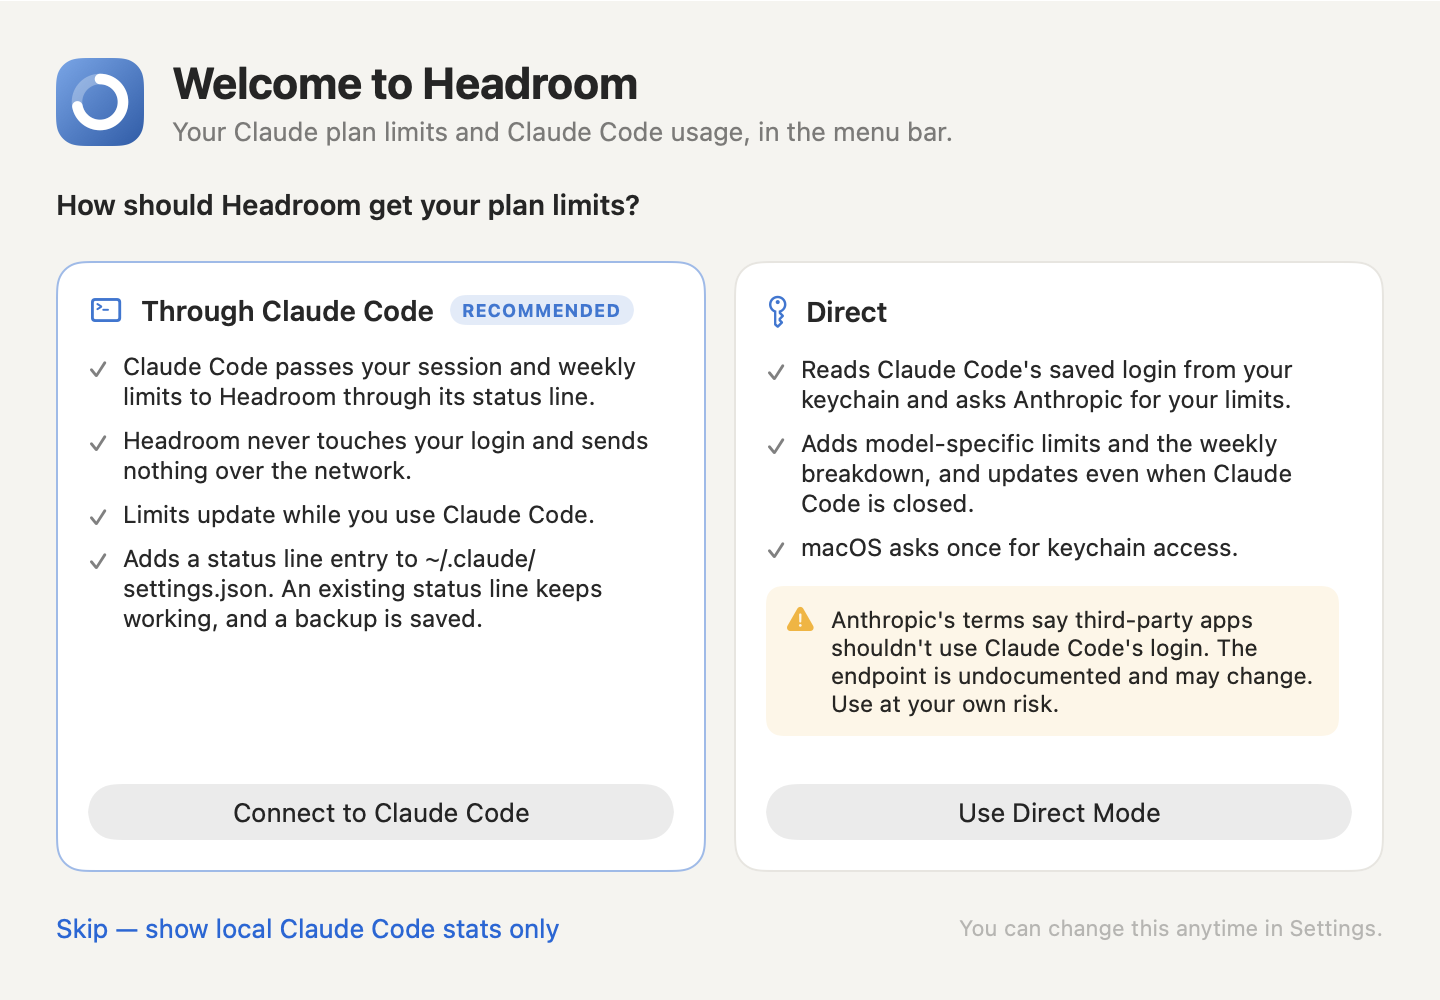
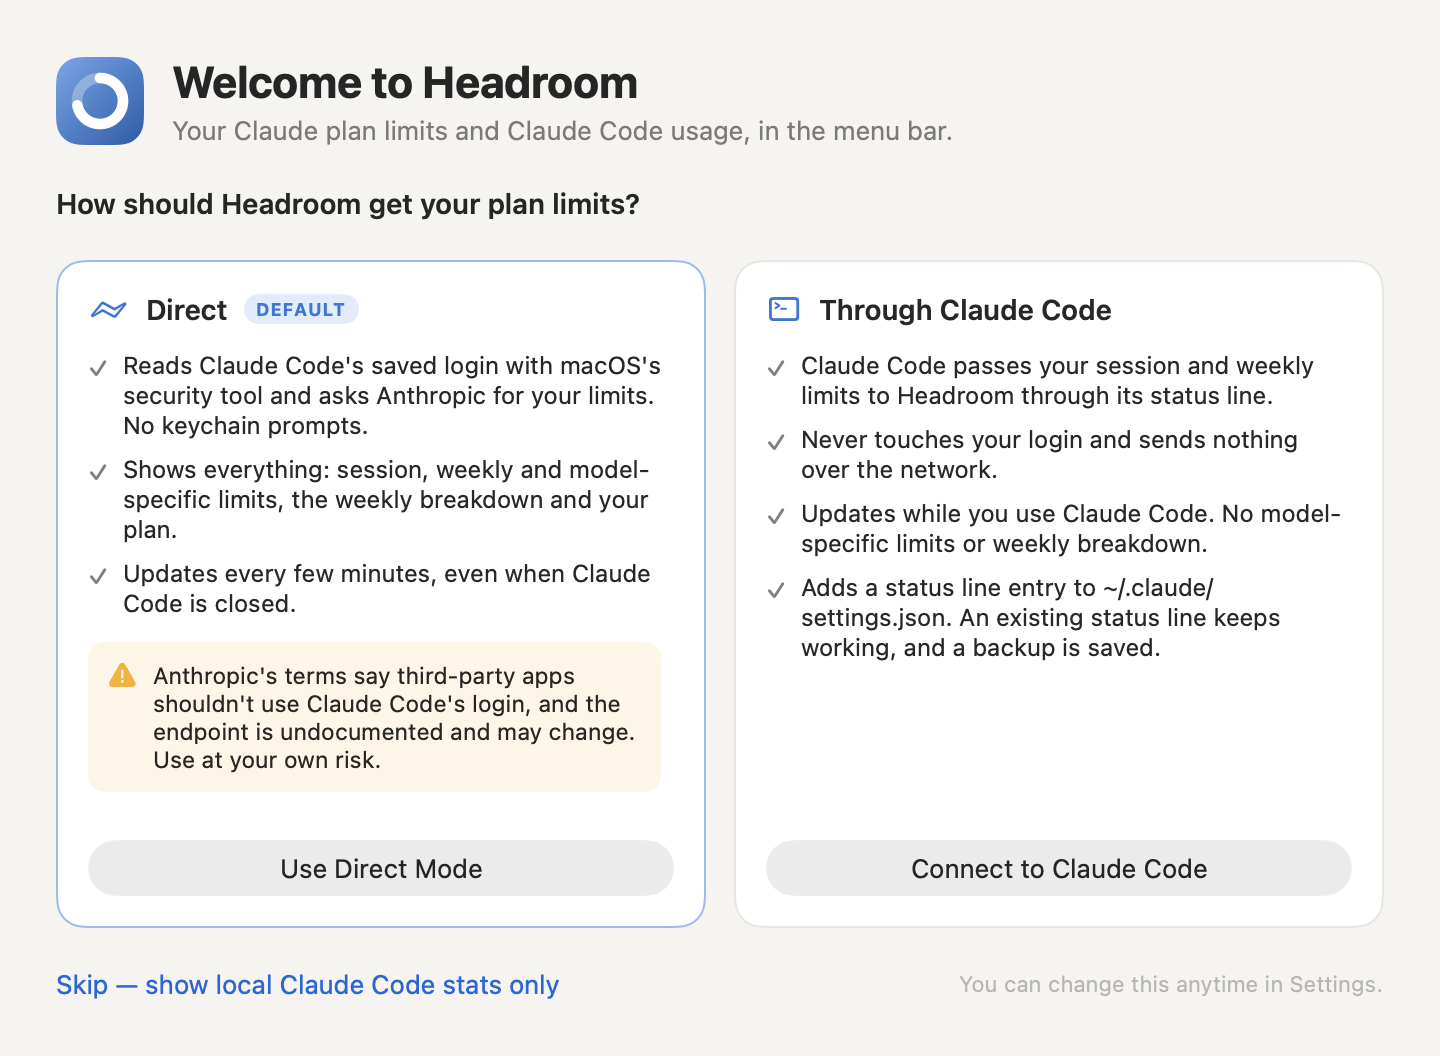
Read the Claude Code login only via the security tool; make Direct the default (#3)
Claude Code renews its token every few hours and rewrites its keychain
entry, which resets any "Always Allow" granted to Headroom directly — so
reading through the Keychain API re-prompted after every renewal (most
visibly after sleep). The entry trusts /usr/bin/security, the tool Claude
Code writes it with, so Direct mode now reads through that tool only.

- Remove the Keychain API path and the "Read login using" setting
- Setup lists Direct first as the default; the terms note stays
- README explains why there are no keychain prompts

diff --git a/App/Model/AppModel.swift b/App/Model/AppModel.swift
@@ -19,7 +19,7 @@ enum MenuBarStyle: String, CaseIterable, Identifiable {
 enum LimitsSource: String, CaseIterable, Identifiable {
     /// Claude Code's status line hands us the limits — the approved way. No login, no network.
     case claudeCode
-    /// Reads Claude Code's saved login and calls Anthropic's usage endpoint directly.
+    /// Reads Claude Code's saved login (via /usr/bin/security) and calls Anthropic's usage endpoint.
     case direct
     /// Local Claude Code stats only.
     case off
@@ -78,9 +78,6 @@ final class AppModel {
     var menuBarStyle: MenuBarStyle {
         didSet { defaults.set(menuBarStyle.rawValue, forKey: "menuBarStyle") }
     }
-    var credentialMethod: CredentialMethod {
-        didSet { defaults.set(credentialMethod.rawValue, forKey: "credentialMethod"); credentials = nil }
-    }
     var launchAtLogin: Bool {
         didSet {
             guard !isPreview, launchAtLogin != (SMAppService.mainApp.status == .enabled) else { return }
@@ -110,7 +107,7 @@ final class AppModel {
         limitsSource = LimitsSource(rawValue: defaults.string(forKey: "limitsSource") ?? "")
         refreshInterval = defaults.object(forKey: "refreshInterval") as? Double ?? 180
         menuBarStyle = MenuBarStyle(rawValue: defaults.string(forKey: "menuBarStyle") ?? "") ?? .ringAndPercent
-        credentialMethod = CredentialMethod(rawValue: defaults.string(forKey: "credentialMethod") ?? "") ?? .keychain
+        defaults.removeObject(forKey: "credentialMethod")     // setting removed in 1.1
         launchAtLogin = SMAppService.mainApp.status == .enabled
         bridgeState = StatusLineBridge.state
         updateModelColors()
@@ -138,7 +135,6 @@ final class AppModel {
         limitsSource = .direct
         refreshInterval = 180
         menuBarStyle = .ringAndPercent
-        credentialMethod = .keychain
         launchAtLogin = false
         bridgeState = .installed
         updateModelColors(persist: false)
@@ -288,7 +284,7 @@ final class AppModel {
         } catch CredentialError.notFound {
             report(.notLoggedIn, "No Claude Code login found. Run `claude` and sign in, then refresh.")
         } catch CredentialError.denied {
-            report(.keychainDenied, "Keychain access was denied. Click Grant Access and choose “Always Allow”.")
+            report(.keychainDenied, "macOS didn't allow reading the Claude Code login. Click Retry, and allow access if asked.")
         } catch CredentialError.expired {
             report(.tokenExpired, "Your Claude Code login has expired. Use Claude Code once to renew it.")
         } catch CredentialError.unreadable(let why) {
@@ -319,12 +315,11 @@ final class AppModel {
         snapshot.limits.issue = .init(kind: kind, message: message)
     }
 
-    /// Reads the keychain only when needed: on first use, after the token expires, or after a 401.
+    /// Reads the login only when needed: on first use, after the token expires, or after a 401.
     private func currentCredentials() async throws -> ClaudeCredentials {
         if let credentials, !credentials.isExpired { return credentials }
-        let method = credentialMethod
         let fresh = try await Task.detached(priority: .userInitiated) {
-            try CredentialReader.read(method: method)
+            try CredentialReader.read()
         }.value
         guard !fresh.isExpired else { throw CredentialError.expired }
         credentials = fresh

diff --git a/App/UI/Insights/SetupView.swift b/App/UI/Insights/SetupView.swift
@@ -21,13 +21,29 @@ struct SetupView: View {
 
             HStack(alignment: .top, spacing: 14) {
                 OptionCard(
+                    symbol: "bolt.horizontal",
+                    title: "Direct",
+                    badge: "Default",
+                    points: [
+                        "Reads Claude Code's saved login with macOS's security tool and asks Anthropic for your limits. No keychain prompts.",
+                        "Shows everything: session, weekly and model-specific limits, the weekly breakdown and your plan.",
+                        "Updates every few minutes, even when Claude Code is closed.",
+                    ],
+                    warning: "Anthropic's terms say third-party apps shouldn't use Claude Code's login, and the endpoint is undocumented and may change. Use at your own risk.",
+                    action: "Use Direct Mode"
+                ) {
+                    model.limitsSource = .direct
+                    Task { await model.refresh(force: true) }
+                }
+
+                OptionCard(
                     symbol: "terminal",
                     title: "Through Claude Code",
-                    badge: "Recommended",
+                    badge: nil,
                     points: [
                         "Claude Code passes your session and weekly limits to Headroom through its status line.",
-                        "Headroom never touches your login and sends nothing over the network.",
-                        "Limits update while you use Claude Code.",
+                        "Never touches your login and sends nothing over the network.",
+                        "Updates while you use Claude Code. No model-specific limits or weekly breakdown.",
                         "Adds a status line entry to ~/.claude/settings.json. An existing status line keeps working, and a backup is saved.",
                     ],
                     warning: nil,
@@ -35,22 +51,6 @@ struct SetupView: View {
                 ) {
                     // Only leave setup once Claude Code is actually connected.
                     if model.installBridge() { model.limitsSource = .claudeCode }
-                }
-
-                OptionCard(
-                    symbol: "key",
-                    title: "Direct",
-                    badge: nil,
-                    points: [
-                        "Reads Claude Code's saved login from your keychain and asks Anthropic for your limits.",
-                        "Adds model-specific limits and the weekly breakdown, and updates even when Claude Code is closed.",
-                        "macOS asks once for keychain access.",
-                    ],
-                    warning: "Anthropic's terms say third-party apps shouldn't use Claude Code's login. The endpoint is undocumented and may change. Use at your own risk.",
-                    action: "Use Direct Mode"
-                ) {
-                    model.limitsSource = .direct
-                    Task { await model.refresh(force: true) }
                 }
             }
             .fixedSize(horizontal: false, vertical: true)

diff --git a/App/Services/Credentials.swift b/App/Services/Credentials.swift
@@ -1,16 +1,4 @@
 import Foundation
-import Security
-
-/// How the app reads Claude Code's login from the keychain.
-enum CredentialMethod: String, CaseIterable, Identifiable {
-    /// Apple's Keychain API. macOS asks once; choose "Always Allow".
-    case keychain
-    /// `/usr/bin/security`, which Claude Code itself uses to store the item — usually no prompt.
-    case securityTool
-
-    var id: String { rawValue }
-    var label: String { self == .keychain ? "macOS Keychain" : "security tool" }
-}
 
 struct ClaudeCredentials {
     var accessToken: String
@@ -39,14 +27,18 @@ enum CredentialError: Error {
 }
 
 /// Reads — never writes or refreshes — the OAuth login Claude Code keeps in the keychain.
+///
+/// It goes through `/usr/bin/security`, the same tool Claude Code uses to save the login. The keychain
+/// entry trusts that tool, so there's no prompt — including after Claude Code renews the token, which
+/// would reset an "Always Allow" given to this app directly.
 /// Refreshing is left to Claude Code: doing it here would rotate the refresh token and log Claude Code out.
 enum CredentialReader {
     static let service = "Claude Code-credentials"
 
-    static func read(method: CredentialMethod) throws -> ClaudeCredentials {
+    static func read() throws -> ClaudeCredentials {
         let data: Data
         do {
-            data = try method == .keychain ? readKeychain() : readSecurityTool()
+            data = try readSecurityTool()
         } catch CredentialError.notFound {
             // Some setups (e.g. CLAUDE_CONFIG_DIR / older versions) keep a plain file instead.
             let file = FileManager.default.homeDirectoryForCurrentUser.appendingPathComponent(".claude/.credentials.json")
@@ -54,29 +46,6 @@ enum CredentialReader {
             data = fileData
         }
         return try parse(data)
-    }
-
-    private static func readKeychain() throws -> Data {
-        let query: [String: Any] = [
-            kSecClass as String: kSecClassGenericPassword,
-            kSecAttrService as String: service,
-            kSecReturnData as String: true,
-            kSecMatchLimit as String: kSecMatchLimitOne,
-        ]
-        var result: CFTypeRef?
-        let status = SecItemCopyMatching(query as CFDictionary, &result)
-        switch status {
-        case errSecSuccess:
-            guard let data = result as? Data else { throw CredentialError.unreadable("Empty keychain item") }
-            return data
-        case errSecItemNotFound:
-            throw CredentialError.notFound
-        case errSecUserCanceled, errSecAuthFailed, errSecInteractionNotAllowed:
-            throw CredentialError.denied
-        default:
-            let msg = SecCopyErrorMessageString(status, nil) as String? ?? "OSStatus \(status)"
-            throw CredentialError.unreadable("Keychain: \(msg)")
-        }
     }
 
     private static func readSecurityTool() throws -> Data {

diff --git a/App/UI/Insights/SettingsPage.swift b/App/UI/Insights/SettingsPage.swift
@@ -43,11 +43,6 @@ struct SettingsPage: View {
                         }
                     }
                 }
-                if model.limitsSource == .direct {
-                    Picker("Read login using", selection: $model.credentialMethod) {
-                        ForEach(CredentialMethod.allCases) { Text($0.label).tag($0) }
-                    }
-                }
                 if let error = model.bridgeError {
                     Text(error).font(.system(size: 11)).foregroundStyle(Theme.critical)
                 }
@@ -59,7 +54,7 @@ struct SettingsPage: View {
                     case .claudeCode:
                         Text("Claude Code passes your session and weekly limits to Headroom's helper through its status line (~/.claude/settings.json). Your previous status line, if any, keeps working and comes back if you disconnect. Nothing leaves your Mac.")
                     case .direct:
-                        Text("Reads Claude Code's saved login and calls Anthropic's undocumented usage endpoint. The token is only sent to api.anthropic.com and never stored. Anthropic's terms say third-party apps shouldn't use Claude Code's login — use at your own risk.")
+                        Text("Reads Claude Code's saved login with macOS's `security` tool — the same tool Claude Code saves it with, so there's no keychain prompt — and calls Anthropic's undocumented usage endpoint. The token is only sent to api.anthropic.com and never stored. Anthropic's terms say third-party apps shouldn't use Claude Code's login — use at your own risk.")
                     case .off:
                         Text("Plan limits are off. Local Claude Code stats still work.")
                     }

diff --git a/App/UI/Insights/OverviewPage.swift b/App/UI/Insights/OverviewPage.swift
@@ -368,7 +368,7 @@ private struct IssueCard: View {
             Text(issue.message).font(.system(size: 12))
             Spacer()
             if issue.kind == .keychainDenied {
-                Button("Grant Access") { Task { await model.refresh(force: true) } }
+                Button("Retry") { Task { await model.refresh(force: true) } }
             } else if issue.kind == .apiChanged {
                 Button("Copy API Response") { model.copyLastResponse() }
             } else if issue.kind == .setupNeeded {

diff --git a/App/UI/Menu/MenuPanel.swift b/App/UI/Menu/MenuPanel.swift
@@ -241,7 +241,7 @@ private struct IssueRow: View {
                 .fixedSize(horizontal: false, vertical: true)
             Spacer(minLength: 0)
             if issue.kind == .keychainDenied {
-                Button("Grant") { Task { await model.refresh(force: true) } }
+                Button("Retry") { Task { await model.refresh(force: true) } }
                     .controlSize(.small)
             } else if issue.kind == .setupNeeded {
                 Button("Set Up", action: openSettings)

diff --git a/README.md b/README.md
@@ -61,17 +61,19 @@ On first launch Headroom asks how to get your plan limits:
 
 <p align="center"><img src="docs/setup-light.png" width="620" alt="First-launch setup"></p>
 
-| | **Through Claude Code** (recommended) | **Direct** |
+| | **Direct** (default) | **Through Claude Code** |
 |---|---|---|
-| How | Claude Code passes your limits to Headroom's helper through its [status line](https://code.claude.com/docs/en/statusline) | Headroom reads Claude Code's saved login from your keychain and calls Anthropic's usage endpoint |
-| Limits | 5-hour session and weekly | Session, weekly, model-specific (e.g. Fable) and the weekly breakdown by product |
-| Updates | While you're using Claude Code | Every few minutes, even with Claude Code closed |
-| Touches your login | No | Yes (read-only, kept in memory only) |
-| Network | None | One request to `api.anthropic.com` per refresh |
-| Setup | Adds a `statusLine` entry to `~/.claude/settings.json` (a backup is saved) | macOS asks once for keychain access; choose **Always Allow** |
+| How | Headroom reads Claude Code's saved login with macOS's `security` tool and calls Anthropic's usage endpoint | Claude Code passes your limits to Headroom's helper through its [status line](https://code.claude.com/docs/en/statusline) |
+| Limits | Session, weekly, model-specific (e.g. Fable), the weekly breakdown by product, and your plan | 5-hour session and weekly |
+| Updates | Every few minutes, even with Claude Code closed | While you're using Claude Code |
+| Touches your login | Yes (read-only, kept in memory only) | No |
+| Network | One request to `api.anthropic.com` per refresh | None |
+| Setup | Nothing. No keychain prompts (see below) | Adds a `statusLine` entry to `~/.claude/settings.json` (a backup is saved) |
+
+**Why no keychain prompts:** Claude Code saves its login in the keychain entry "Claude Code-credentials" using `/usr/bin/security`, the keychain tool built into macOS, and the entry trusts that tool. Headroom reads the login through the same tool, so macOS doesn't ask, even after Claude Code renews the token. (An "Always Allow" given to an app directly is reset every time Claude Code renews, which is why Headroom doesn't read the keychain directly.)
 
 > [!WARNING]
-> **About Direct mode.** Anthropic's [terms for Claude Code](https://code.claude.com/docs/en/legal-and-compliance#authentication-and-credential-use) say OAuth logins are meant for Claude Code and Anthropic's own apps, and that third-party developers may not collect, store or intermediate them. Direct mode reads your own login locally and never stores or shares it, but it still uses that login outside Claude Code, and the endpoint is undocumented and may change or be restricted at any time. **Use it at your own risk.** "Through Claude Code" avoids this entirely.
+> **About Direct mode.** Anthropic's [terms for Claude Code](https://code.claude.com/docs/en/legal-and-compliance#authentication-and-credential-use) say OAuth logins are meant for Claude Code and Anthropic's own apps, and that third-party developers may not collect, store or intermediate them. Direct mode reads your own login locally and never stores or shares it, but it still uses that login outside Claude Code, and the endpoint is undocumented and may change or be restricted at any time. **Use it at your own risk.** "Through Claude Code" avoids this entirely, with less data.
 
 You can switch modes, or turn plan limits off, at any time in **Settings**.
 
@@ -98,7 +100,7 @@ security find-identity -v -p codesigning      # shows your certificate name and 
 # edit Config/Local.xcconfig with your team ID, certificate name and bundle ID
 ```
 
-This matters for Direct mode: with ad-hoc signing each rebuild changes the app's signature, so macOS asks for keychain access again. `Config/Local.xcconfig` is gitignored.
+`Config/Local.xcconfig` is gitignored.
 
 ## Privacy
 
@@ -129,7 +131,7 @@ App/
   Services/
     StatusLineBridge.swift  "Through Claude Code": installs the status line helper, reads its data
     UsageAPI.swift          Direct mode: the usage endpoint (the only file to update if it changes)
-    Credentials.swift       Direct mode: read-only keychain access
+    Credentials.swift       Direct mode: reads Claude Code's login via /usr/bin/security (read-only)
     LogScanner.swift        Incremental, cached parser for Claude Code logs
     Pricing.swift           API list prices for cost estimates
   Model/                    Models, AppModel (refresh loop, history), sample data
@@ -148,7 +150,7 @@ To work in Xcode: `xcodegen generate && open Headroom.xcodeproj`.
 ```sh
 Headroom --dump-local                    # print local totals per range and exit
 Headroom --render-preview <dir>          # render every screen (light and dark) with sample data
-Headroom --demo                          # run the app on sample data (no keychain, no network)
+Headroom --demo                          # run the app on sample data (no login, no network)
 swift scripts/make_icon.swift            # regenerate the app icon
 ```
 
